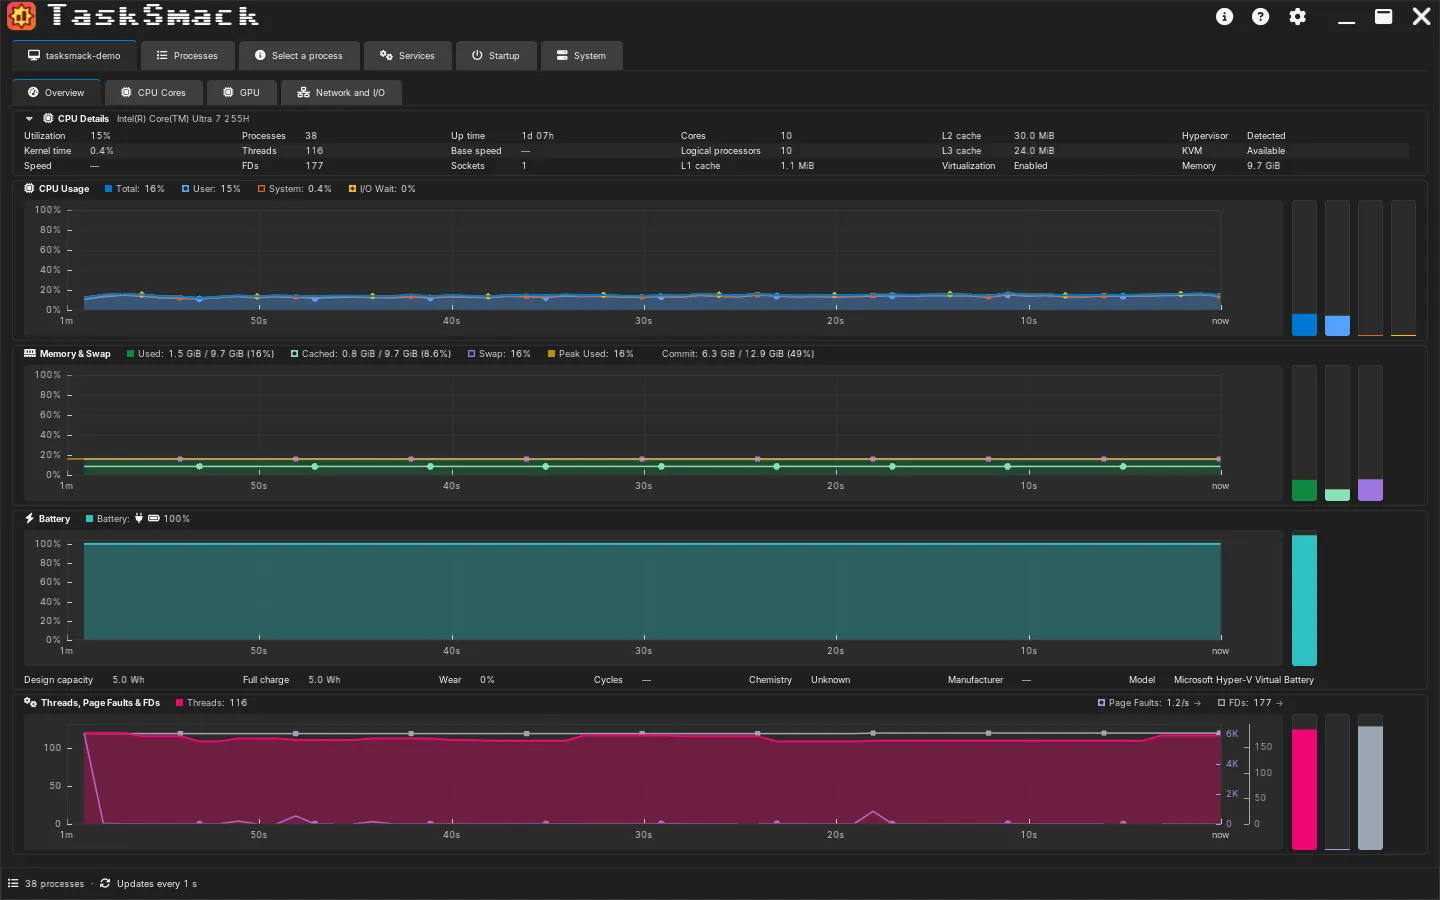
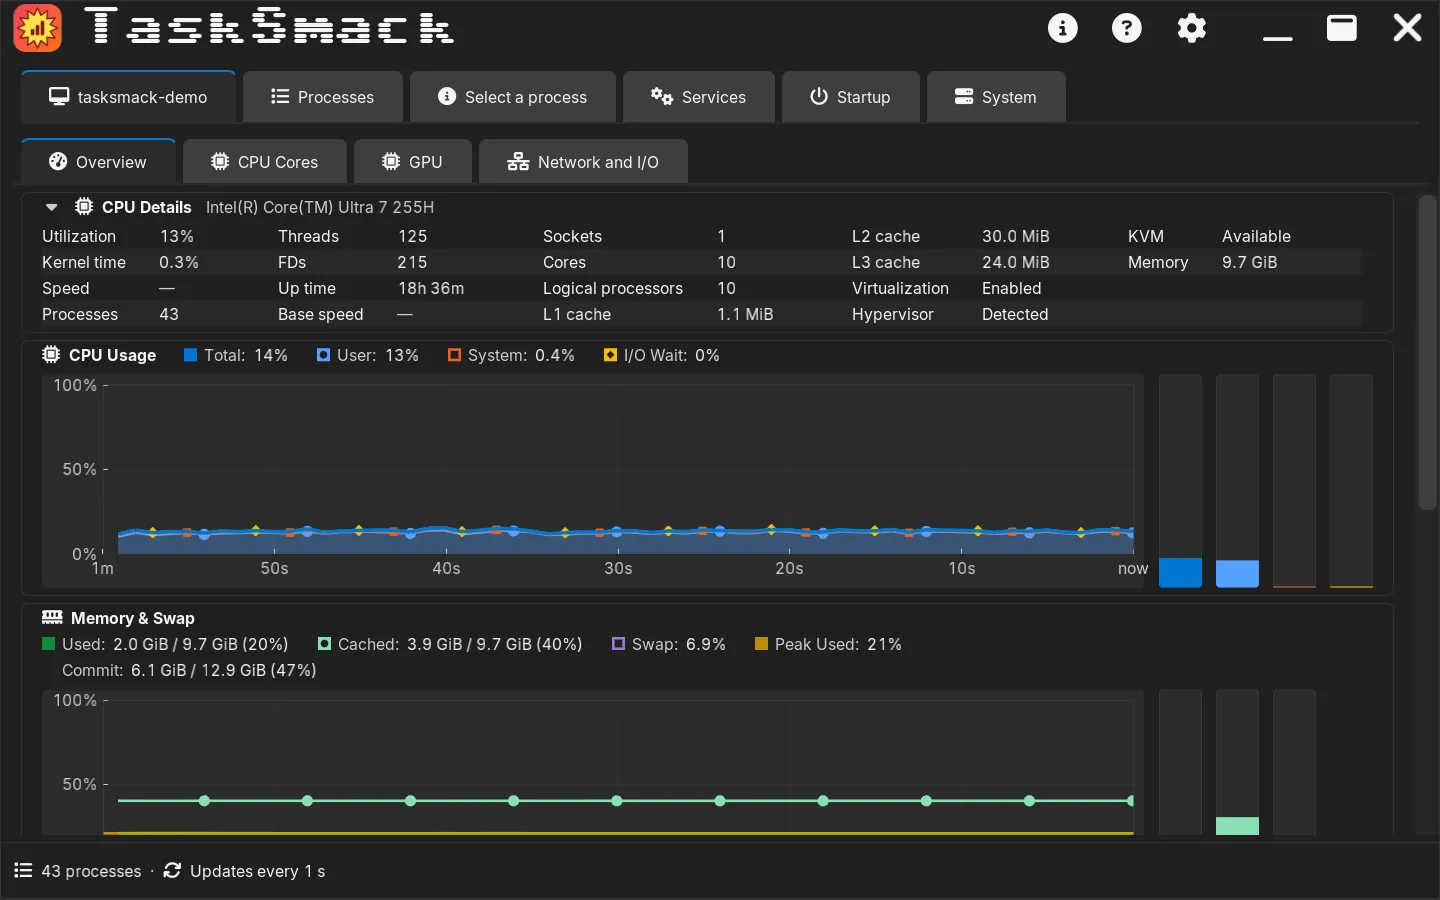
docs(images): the Linux screenshot set regenerated with the full matrix at the Windows set's scale (#2827)
All 26 entries of the current matrix (the sections, the machine tab's sub-tabs, the walk and
themes animations), captured by tools/screenshots.sh under Xvfb in WSL as a tasksmack-demo host at
SDL_VIDEO_X11_SCALING_FACTOR=1.75, the Windows set's 175 % scale (SDL's X11 backend never reads
Xvfb's -dpi). The three expanded-section shots are 1440x1200, since on Linux the taller Actions
and Priority cards push every section below a 900 px fold. The selected process is TaskSmack from
a bind mount at /srv/tasksmack, so its command line names no user and its sections are readable
from the user namespace. The guide switches the five images it borrowed from the Windows set to
the Linux ones. Both scripts select the System Information tab by its id, SystemInfo: the label
"System" races the machine tab's provisional label at startup (#2886).

diff --git a/docs/guide/user-guide.md b/docs/guide/user-guide.md
@@ -162,7 +162,7 @@ A cell reading **-** is a value of 0 (or one that doesn't apply). A cell reading
 
 **Row menu.** Right-click a row for **Details** (opens the Process Details tab), **Copy PID**, **Copy Name** and **Copy Command Line**, then the process actions this platform offers: **Suspend...** and **Resume...**, **Set affinity...** and **Create dump file...** (one process only), and **Terminate...** and **Kill...** (F9). On a multi-selection the actions apply to every selected process, and **Set priority for N processes...** is added; see [Process Actions](#process-actions).
 
-![Animation: the Processes tab opens, a process row is selected, and its Process Details tab comes forward on the Network and I/O sub-tab](../images/screenshots/windows/walk-live.webp)
+![Animation: the Processes tab opens, a process row is selected, and its Process Details tab comes forward on the Network and I/O sub-tab](../images/screenshots/linux/walk-live.webp)
 
 *Selecting a process and opening its Process Details: the Processes tab, then the selected row, then the process's own tab with its **Network and I/O** sub-tab in front.*
 
@@ -362,7 +362,7 @@ The Process Details **Overview** tab has a collapsible **Environment** section, 
 
 ### Connections
 
-![Process Details' Overview with the Connections section expanded below the Actions and Priority cards, reading No TCP or UDP sockets for the selected process](../images/screenshots/windows/details-connections-windows-dark.webp)
+![Process Details' Overview with the Connections section expanded below the Actions and Priority cards, reading No TCP or UDP sockets for the selected process](../images/screenshots/linux/details-connections-windows-dark.webp)
 
 *The **Connections** section opened under the Actions and Priority cards, here for a process that holds no TCP or UDP sockets.*
 
@@ -382,7 +382,7 @@ The Process Details **Overview** tab also has a collapsible **Connections** sect
 
 ### Modules
 
-![Process Details' Overview with the Modules section expanded: Modules (270) in its header, a filter box, and a table with NAME, VERSION, BASE, SIZE and PATH columns](../images/screenshots/windows/details-modules-windows-dark.webp)
+![Process Details' Overview with the Modules section expanded below the collapsed Environment and Connections sections: Modules (51) in its header, a filter box, and a table with NAME, BASE, SIZE and PATH columns listing the shared libraries under /usr/lib](../images/screenshots/linux/details-modules-windows-dark.webp)
 
 *The **Modules** section opened, with the count in its header, the filter box and the NAME / VERSION / BASE / SIZE / PATH table sorted by name.*
 
@@ -424,7 +424,7 @@ TaskSmack reads the token (`OpenProcessToken`, `GetTokenInformation`) only for t
 
 ### Open files
 
-![Process Details' Overview with the Open files section expanded after a scan, Open files (118) in its header](../images/screenshots/windows/details-openfiles-windows-dark.webp)
+![Process Details' Overview with the Open files section expanded after a scan: Open files (14) in its header, the Rescan button with the time of the scan, and the filter box above the table](../images/screenshots/linux/details-openfiles-windows-dark.webp)
 
 *The **Open files** section after a scan, with the number of open files in its header and the results listed below it.*
 
@@ -653,7 +653,7 @@ See the built-in theme files (shipped alongside the application) for the expecte
 
 TaskSmack currently ships 20 themes. Theme schema details and the current inventory live in [`assets/themes/README.md`](https://github.com/mgradwohl/tasksmack/blob/main/assets/themes/README.md).
 
-![Animation: the machine tab's Overview switching through the Windows Dark, Ubuntu Light, Dracula, Nord Light, Gruvbox and Monochrome Light themes](../images/screenshots/windows/themes-live.webp)
+![Animation: the machine tab's Overview switching through the Windows Dark, Ubuntu Light, Dracula, Nord Light, Gruvbox and Monochrome Light themes](../images/screenshots/linux/themes-live.webp)
 
 *The Overview switching through six of the bundled themes, as choosing each one in Settings does: Windows Dark, Ubuntu Light, Dracula, Nord Light, Gruvbox and Monochrome Light.*
 

diff --git a/CONTRIBUTING.md b/CONTRIBUTING.md
@@ -803,10 +803,19 @@ and exit non-zero if any shot failed.
 Regenerate both sets at each minor release, from the release candidate's build, and commit them with it:
 
 ```bash
-# Linux (WSL is fine): a throwaway host and user name (unshare -r -u) so no real name reaches the images
+# Linux (WSL is fine): a throwaway host and user name (unshare -r -u) so no real name reaches the images.
+# SDL_VIDEO_X11_SCALING_FACTOR=1.75 renders at the Windows set's 175 % scale (SDL reads that hint,
+# Xft.dpi or GDK_SCALE, never Xvfb's -dpi); the three expanded-section shots need --window 1440x1200
+# on Linux, where the Actions and Priority cards are taller and push the sections below a 900 px fold.
 cmake --preset release && cmake --build --preset release
-tools/screenshots.sh --webp --hostname tasksmack-demo
+SDL_VIDEO_X11_SCALING_FACTOR=1.75 tools/screenshots.sh --webp --hostname tasksmack-demo
 ```
+
+Under Xvfb, SDL warps the pointer to the window's centre at startup, which hovers a chart and draws its
+tooltip into the shot: keep the pointer parked outside the window for the run (python-xlib's
+`root.warp_pointer()` to a screen corner, repeated every quarter second). The selected process's command
+line is shown in Process Details, so run the binary from a path that names no user (a bind mount of the
+build's `bin/` at `/srv/tasksmack` inside the namespace, `--exe /srv/tasksmack/TaskSmack --process TaskSmack`).
 
 ```powershell
 # Windows: in a Windows Sandbox (its own processes, user and host name) with a win-release build made
